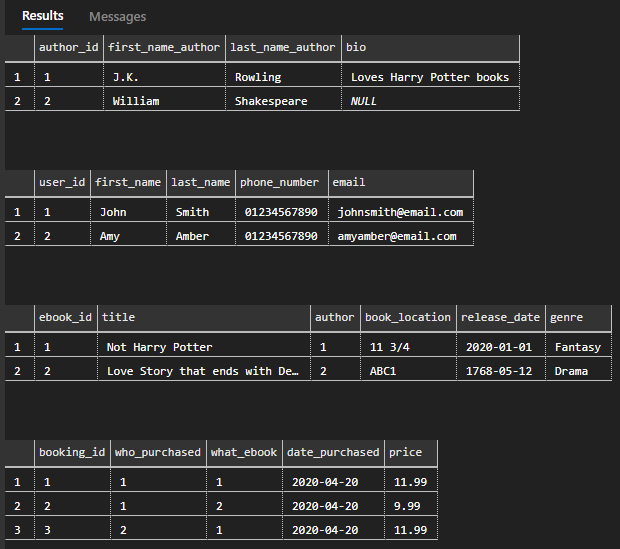
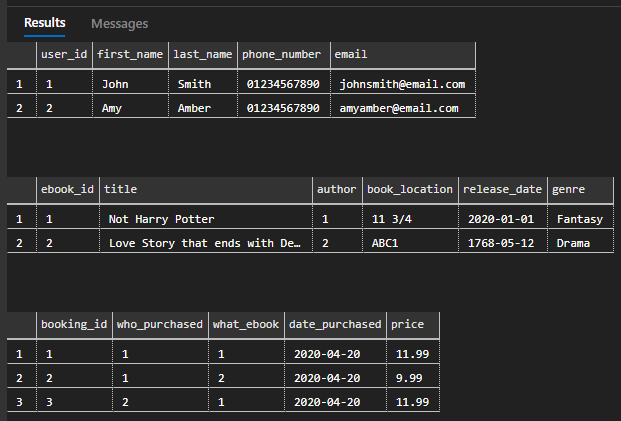
Fix Writers Table

diff --git a/SQL/Day_1/Assignment/README.md b/SQL/Day_1/Assignment/README.md
@@ -23,17 +23,10 @@ CREATE TABLE users (
     email VARCHAR(255) NOT NULL
 );
 
-CREATE TABLE authors (
-    author_id INT NOT NULL IDENTITY(1,1) PRIMARY KEY,
-    first_name_author VARCHAR(255) NOT NULL,
-    last_name_author VARCHAR(255) NOT NULL,
-    bio VARCHAR(max) DEFAULT NULL
-)
-
 CREATE TABLE ebooks (
     ebook_id INT NOT NULL IDENTITY(1,1) PRIMARY KEY,
     title VARCHAR(255) NOT NULL,
-    author INT REFERENCES authors(author_id),
+    author INT REFERENCES users(user_id),
     book_location VARCHAR(6) NOT NULL,
     release_date DATE NOT NULL,
     genre VARCHAR(255) NOT NULL
@@ -78,24 +71,6 @@ INSERT INTO users (
     'Amber',
     '01234567890',
     'amyamber@email.com'
-);
-
-INSERT INTO authors (
-    first_name_author,
-    last_name_author,
-    bio
-) VALUES (
-    'J.K.',
-    'Rowling',
-    'Loves Harry Potter books'
-);
-
-INSERT INTO authors (
-    first_name_author,
-    last_name_author
-) VALUES (
-    'William',
-    'Shakespeare'
 );
 
 INSERT INTO ebooks (
@@ -193,7 +168,6 @@ We can just use the following for simple output.
 
 ```sql
 SELECT * FROM users;
-SELECT * FROM authors;
 SELECT * FROM ebooks;
 SELECT * FROM booking;
 ```
